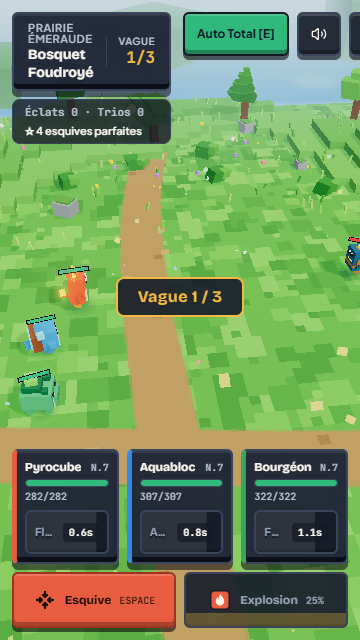
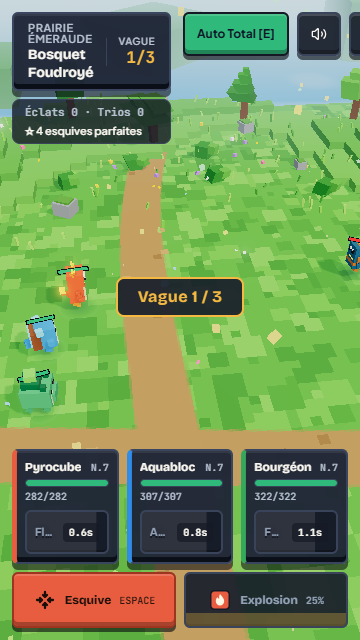
art.4: lumiere de la Prairie et du camp (artLight.ts : ciel en degrade, soleil rasant matin et soir au camp, ombres 2048 au cadre resserre qui suit la camera, rayons de lumiere en qualite Haut ; etalonnage revu) ; navigateur seulement, golden identique

diff --git a/src/game/engine/artLight.ts b/src/game/engine/artLight.ts
@@ -1,0 +1,119 @@
+/**
+ * La lumière du sprint Art (section 4), pour la Prairie et le camp, dans le navigateur seulement :
+ * - ciel en dégradé (dôme), dont les couleurs suivent celles du fond et de la brume (jour, nuit) ;
+ * - soleil rasant le matin et le soir au camp (la lumière principale suit l'heure) ;
+ * - ombres plus fines : carte 2048 en qualité Haut, cadre d'ombre resserré qui suit la zone visible ;
+ * - brume légère à l'horizon, et rayons de lumière en qualité Haut.
+ * Rien en headless : la simulation et le golden ne sont pas concernés.
+ */
+import * as THREE from 'three';
+import type { VoxelEngine } from '../VoxelEngine';
+import { isArtDecorOn } from '../models/meadowDecor';
+
+interface ArtLight {
+  dome: THREE.Mesh;
+  top: THREE.Color;
+  bottom: THREE.Color;
+  rays: THREE.Group;
+  rayMat: THREE.MeshBasicMaterial;
+}
+
+const _off = new THREE.Vector3();
+
+function rayTexture(): THREE.CanvasTexture {
+  const c = document.createElement('canvas');
+  c.width = 64;
+  c.height = 256;
+  const g = c.getContext('2d')!;
+  const grad = g.createLinearGradient(0, 0, 0, 256);
+  grad.addColorStop(0, 'rgba(255,244,214,0.0)');
+  grad.addColorStop(0.35, 'rgba(255,244,214,0.55)');
+  grad.addColorStop(1, 'rgba(255,244,214,0.0)');
+  g.fillStyle = grad;
+  g.fillRect(0, 0, 64, 256);
+  const side = g.createLinearGradient(0, 0, 64, 0);
+  side.addColorStop(0, 'rgba(0,0,0,1)');
+  side.addColorStop(0.5, 'rgba(0,0,0,0)');
+  side.addColorStop(1, 'rgba(0,0,0,1)');
+  g.globalCompositeOperation = 'destination-out';
+  g.fillStyle = side;
+  g.fillRect(0, 0, 64, 256);
+  const t = new THREE.CanvasTexture(c);
+  t.colorSpace = THREE.SRGBColorSpace;
+  return t;
+}
+
+export function setupArtLight(self: VoxelEngine): void {
+  if (!self.renderer || self.headless || !isArtDecorOn()) return;
+  const top = new THREE.Color('#5EA8E8');
+  const bottom = new THREE.Color('#CFE8F8');
+  const mat = new THREE.ShaderMaterial({
+    side: THREE.BackSide,
+    depthWrite: false,
+    fog: false,
+    uniforms: { uTop: { value: top }, uBottom: { value: bottom } },
+    vertexShader: 'varying vec3 vP; void main(){ vP = normalize(position); gl_Position = projectionMatrix * modelViewMatrix * vec4(position,1.0); }',
+    fragmentShader:
+      'uniform vec3 uTop; uniform vec3 uBottom; varying vec3 vP; void main(){ float h = clamp(vP.y * 1.6 + 0.15, 0.0, 1.0); gl_FragColor = vec4(mix(uBottom, uTop, h), 1.0); }',
+  });
+  const dome = new THREE.Mesh(new THREE.SphereGeometry(150, 24, 12), mat);
+  dome.renderOrder = -10;
+  dome.frustumCulled = false;
+  self.scene.add(dome);
+
+  // rayons de lumière (qualité Haut, de jour) : quelques plans verticaux additifs
+  const rayMat = new THREE.MeshBasicMaterial({ map: rayTexture(), transparent: true, depthWrite: false, blending: THREE.AdditiveBlending, opacity: 0.0, side: THREE.DoubleSide, fog: false });
+  const rays = new THREE.Group();
+  for (let i = 0; i < 5; i++) {
+    const p = new THREE.Mesh(new THREE.PlaneGeometry(3 + i * 0.6, 26), rayMat);
+    p.position.set(-14 + i * 7, 9, -12 + (i % 2) * 5);
+    p.rotation.set(0, 0.6, 0.42);
+    rays.add(p);
+  }
+  self.scene.add(rays);
+
+  // ombres plus fines, cadre resserré qui suivra la caméra
+  const k = self.keyLight;
+  k.shadow.mapSize.set(2048, 2048);
+  const d = 17;
+  k.shadow.camera.left = -d;
+  k.shadow.camera.right = d;
+  k.shadow.camera.top = d;
+  k.shadow.camera.bottom = -d;
+  k.shadow.camera.updateProjectionMatrix();
+  k.shadow.radius = 3;
+  self.scene.add(k.target);
+  self.artLight = { dome, top, bottom, rays, rayMat };
+}
+
+/** Un pas : ciel, soleil, cadre d'ombre, rayons. */
+export function updateArtLight(self: VoxelEngine): void {
+  const a = self.artLight;
+  if (!a) return;
+  const meadow = self.playMode === 'camp' || self.activeStage?.biomeId === 'meadow';
+  a.dome.visible = meadow;
+  if (!meadow) {
+    a.rays.visible = false;
+    return;
+  }
+  // ciel : le haut prend la couleur du fond (qui suit l'heure), le bas celle de la brume
+  if (self.scene.background instanceof THREE.Color) a.top.copy(self.scene.background).offsetHSL(0, 0.05, -0.08);
+  if (self.scene.fog) a.bottom.copy(self.scene.fog.color);
+  // soleil : au camp, il se lève à l'est et se couche à l'ouest (rasant matin et soir)
+  const look = self.camLook;
+  if (self.playMode === 'camp') {
+    const ang = self.campClock * Math.PI * 2; // 0 aube, 0,25 midi, 0,5 crépuscule
+    const elev = Math.max(0.18, Math.sin(ang + 0.15));
+    _off.set(Math.cos(ang + 0.15) * 30, elev * 30, 12);
+  } else {
+    _off.set(16, 26, 14);
+  }
+  self.keyLight.position.copy(look).add(_off);
+  self.keyLight.target.position.copy(look);
+  // rayons : qualité Haut, de jour seulement
+  const high = self.postfx?.level === 'high';
+  const day = self.scene.environmentIntensity > 0.3;
+  a.rays.visible = high && day;
+  a.rayMat.opacity = 0.22;
+  a.rays.position.set(look.x, 0, look.z);
+}

diff --git a/src/game/VoxelEngine.ts b/src/game/VoxelEngine.ts
@@ -19,6 +19,7 @@ import { getNextHazardImpact, keepOutOfHazards } from './engine/fx';
 import type { CastContext } from './engine/cubes';
 import { emptyTelemetry, startExpedition } from './engine/expedition';
 import { qualityLabel, setQuality, setupPostFx, type PostFx, type QualitySetting } from './engine/postfx';
+import { setupArtLight } from './engine/artLight';
 import type { LessonId } from './engine/lessons';
 import { getHubAnchors, pickHubPlace, setHubHover, type HubPlace, type HubPlaceId } from './engine/hub';
 import { clearProjectilesAndTelegraphs, spawnParticleBurst } from './engine/fx';
@@ -172,6 +173,8 @@ export class VoxelEngine {
   manualCasts = 0;
   /** Sprint Art : zoom bref de la caméra sur le Déchaînement. */
   ultZoomTimer = 0;
+  /** Sprint Art : lumière de la Prairie (null en headless). */
+  artLight: { dome: THREE.Mesh; top: THREE.Color; bottom: THREE.Color; rays: THREE.Group; rayMat: THREE.MeshBasicMaterial } | null = null;
   lessonTriggerAge = 0;
   /** Mesure du délai « Réessayer » -> première image du combat (overlay ?debug=1). */
   retryClickAt = 0;
@@ -301,6 +304,8 @@ export class VoxelEngine {
     this.keyLight.shadow.bias = -0.0005;
     this.keyLight.shadow.normalBias = 0.02;
     this.scene.add(this.keyLight);
+    // sprint Art : ciel en dégradé, soleil qui suit l'heure, ombres plus fines (navigateur seulement)
+    setupArtLight(this);
 
     const rimLight = new THREE.DirectionalLight('#93C5FD', 0.32);
     rimLight.position.set(-14, 12, -16);

diff --git a/src/game/engine/postfx.ts b/src/game/engine/postfx.ts
@@ -35,8 +35,9 @@ export function nextAutoLevel(level: QualityLevel, lowFpsFor: number): QualityLe
 
 /** Étalonnage léger par biome : saturation et teinte multipliée (1 = neutre). */
 export const BIOME_GRADE: Record<BiomeId | 'camp', { saturation: number; tint: [number, number, number] }> = {
-  camp: { saturation: 1.06, tint: [1.02, 1.0, 0.97] },
-  meadow: { saturation: 1.08, tint: [1.0, 1.02, 0.96] },
+  // sprint Art : Prairie et camp un peu plus chauds et saturés, avec le nouveau décor
+  camp: { saturation: 1.1, tint: [1.04, 1.01, 0.95] },
+  meadow: { saturation: 1.1, tint: [1.03, 1.02, 0.94] },
   shore: { saturation: 1.05, tint: [0.97, 1.0, 1.04] },
   volcano: { saturation: 1.1, tint: [1.05, 0.98, 0.93] },
   sanctuary: { saturation: 1.04, tint: [0.99, 0.98, 1.05] },

diff --git a/src/game/engine/loop.ts b/src/game/engine/loop.ts
@@ -5,6 +5,7 @@
 import { updateStormAmbience, updateWeather } from './atmosphere';
 import { updateCamera } from './camera';
 import { renderFrame } from './postfx';
+import { updateArtLight } from './artLight';
 import { updateCubeVisuals } from './cubeFx';
 import { updateCamp } from './camp';
 import { updateExpedition } from './expedition';
@@ -59,6 +60,7 @@ export function tick(self: VoxelEngine): void {
   const rawDt = Math.max(0.001, (now - self.lastTimeMs) / 1000);
   self.lastTimeMs = now;
   advance(self, Math.min(rawDt, 0.05));
+  updateArtLight(self);
   renderFrame(self, rawDt);
   // mesures lues par l'overlay `?debug=1`
   self.frameCount += 1;
